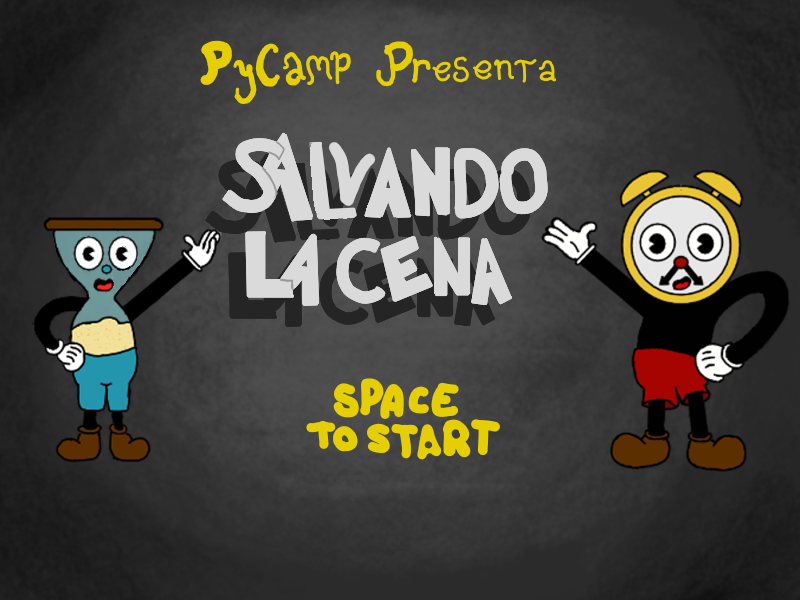
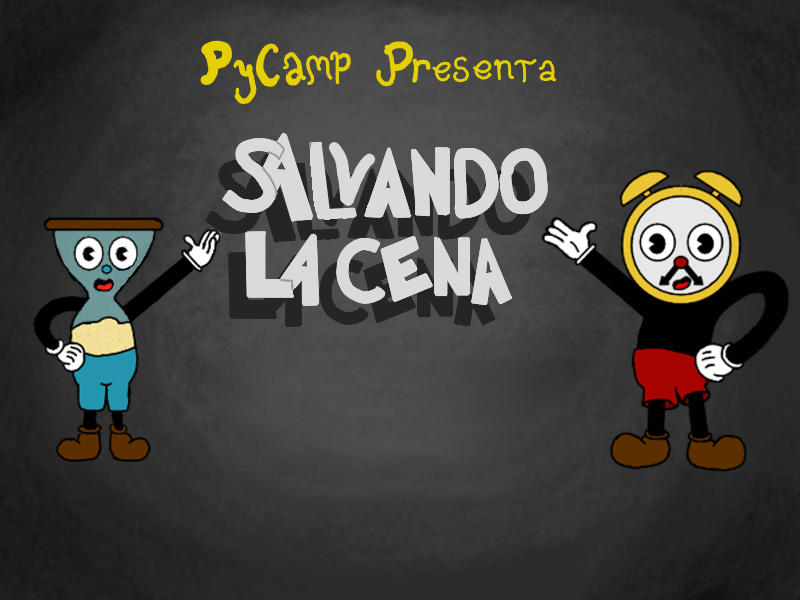
Ahora hay que poner el volante en 1 para empezar
con una tolerancia de +- 0.1.

Changed region(s): [[0.375, 0.63, 0.625, 0.78]]

diff --git a/screen_items.py b/screen_items.py
@@ -84,11 +84,38 @@ class Fondo(pyglet.sprite.Sprite):
         super().__init__(img=image, *args, **kwargs)
 
 
-class Title(pyglet.sprite.Sprite):
-    def __init__(self, *args, **kwargs):
-        image = pyglet.resource.image("imagenes/title.png")
-        super().__init__(img=image, *args, **kwargs)
+class Title(pyglet.graphics.Batch):
+    def __init__(self, window):
+        super().__init__()
+        grupo_imagen = pyglet.graphics.OrderedGroup(0)
+        grupo_mensaje = pyglet.graphics.OrderedGroup(1)
+        self.continuar_anterior = None
 
+        self.mensaje = pyglet.text.Label(
+            font_name="Sans Serif",
+            font_size=20,
+            bold=True,
+            x=window.width / 2,
+            y=window.height / 6,
+            anchor_x="center",
+            anchor_y="center",
+            batch=self,
+            group=grupo_mensaje,
+        )
+        image = pyglet.resource.image("imagenes/title.png")
+        self.sprite_image = pyglet.sprite.Sprite(img=image, batch=self, group=grupo_imagen)
+
+    def update(self, podemos_continuar):
+        if podemos_continuar == self.continuar_anterior:
+            return
+
+        self.continuar_anterior = podemos_continuar
+        if podemos_continuar:
+            self.mensaje.text = "¡apretar el botón ⬤ para empezar!"
+            self.mensaje.color = (255, 255, 0, 255)
+        else:
+            self.mensaje.text = "poner el volante en ➜ para continuar"
+            self.mensaje.color = (255, 255, 0, 155)
 
 
 class Estadisticas(pyglet.graphics.Batch):

diff --git a/main.py b/main.py
@@ -73,7 +73,8 @@ for numero, espera in enumerate(esperas):
 lluvia_2 = Lluvia("imagenes/lluvia-02.png", velocidad=800,)
 lluvia_1 = Lluvia("imagenes/lluvia-01.png", velocidad=1200)
 fondo = Fondo("imagenes/fondo_juego.png")
-title = Title()
+title = Title(window)
+
 final = Final(espera=50 * 0.6)
 estadisticas = Estadisticas(window=window, objetos=objetos, get_current_frame=get_current_frame)
 
@@ -149,12 +150,13 @@ def reiniciar_objetos():
 def update(dt):
     global jugando
 
+    reloj.update(delta_time)
+
     if jugando:
         lluvia_1.update(dt, delta_time)
         # label.update(dt)
         lluvia_2.update(dt, delta_time)
         player.update(dt)
-        reloj.update(delta_time)
         estadisticas.update()
         update_direction(delta_time)
         update_objetos(dt)
@@ -168,10 +170,11 @@ def update(dt):
             player_reverse.seek(0)
             reiniciar_objetos()
     else:
-        if keys[key.SPACE]:
-            if not jugando:
-                music_player.play()
-                jugando = True
+        podemos_continuar = abs(1 - delta_time) < 0.1
+        title.update(podemos_continuar)
+        if keys[key.SPACE] and podemos_continuar:
+            music_player.play()
+            jugando = True
 
 
 @window.event
